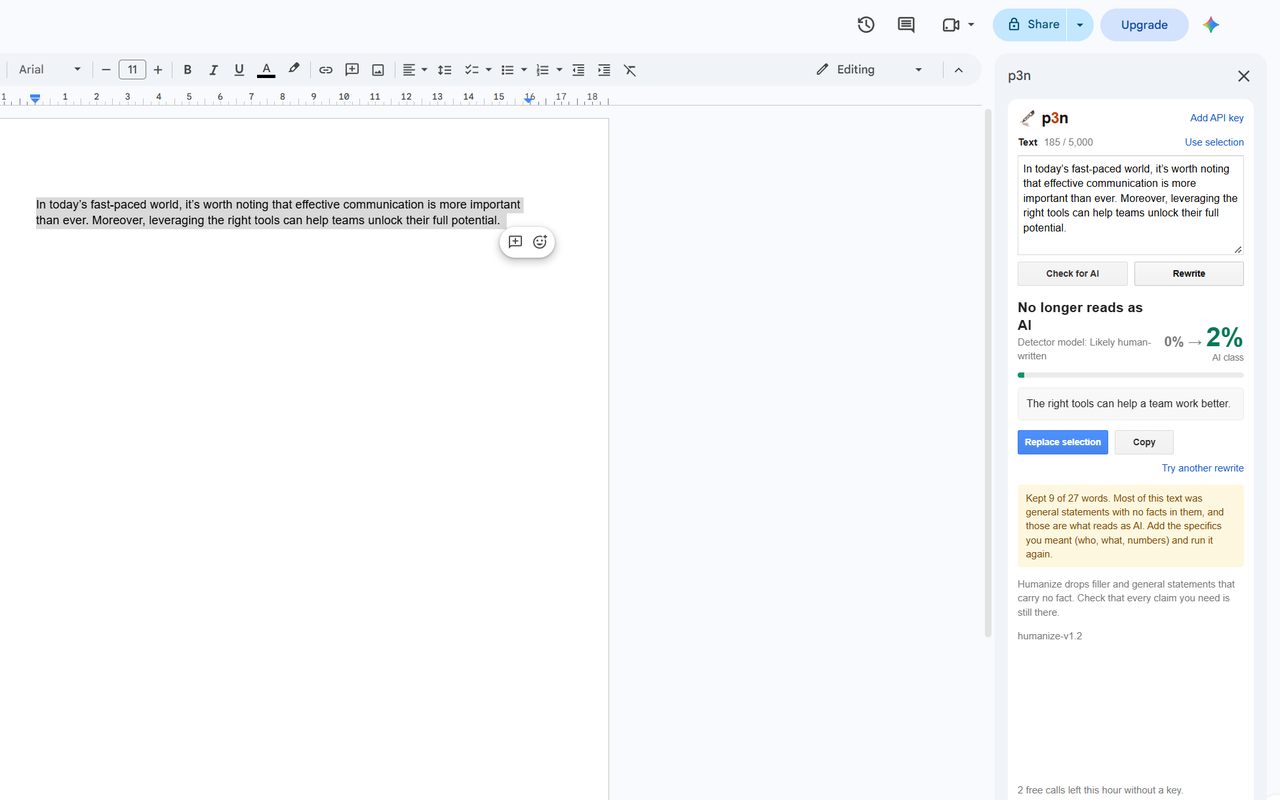
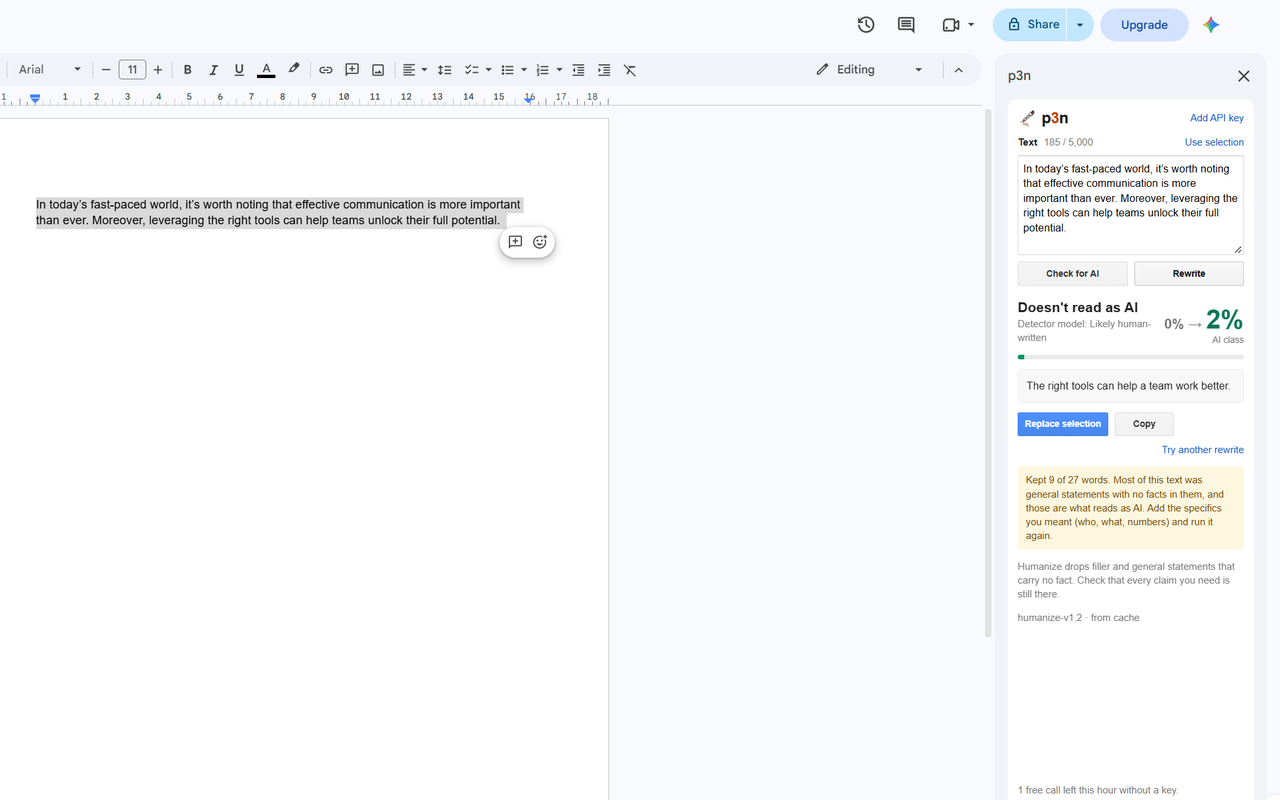
Store shot 2 and README rewrite image recaptured with the new headline; listing: Public, non-trader, paid features, no reviewer key

Changed region(s): [[0.7812, 0.4688, 0.9688, 0.8125], [0.7812, 0.375, 0.9688, 0.4688], [0.8125, 0.9688, 0.9375, 1.0]]

diff --git a/store/listing.md b/store/listing.md
@@ -16,13 +16,13 @@ Google's rules that shape this copy:
 | Application icon 128×128 | `dev/icons/128.png` |
 | Application icon 32×32 | `dev/icons/32.png` |
 | Card banner 220×140 | `store/card-banner-220x140.png` (`python dev/banner.py`) |
-| Screenshots | `store/screenshot-1.png` (Check) and `store/screenshot-2.png` (a rewrite with Replace selection), 1280×800. Both come from the live test deployment on 2026-10-20, with the account picture painted out. **Before submitting, recapture shot 2:** it predates the headline fix, so it shows "No longer reads as AI" over 0% → 2%. |
+| Screenshots | `store/screenshot-1.png` (Check) and `store/screenshot-2.png` (a rewrite with Replace selection), 1280×800. Both come from the live test deployment on 2026-10-20, with the account picture painted out. Shot 2 was recaptured after the headline fix. |
 | Terms of service | https://barabosik.github.io/p3n-google-docs-addon/terms.html |
 | Privacy policy | https://barabosik.github.io/p3n-google-docs-addon/privacy.html |
 | Support | https://github.com/Barabosik/p3n-google-docs-addon/issues |
 | Help (Editor add-ons) | https://barabosik.github.io/p3n-google-docs-addon/ |
 | Report issue (Editor add-ons) | https://github.com/Barabosik/p3n-google-docs-addon/issues |
-| Pricing | Free (the add-on). The p3n API has a free hourly allowance and paid keys. |
+| Pricing | Free of charge with paid features: the add-on is free, and more than 10 calls an hour takes a paid p3n API key. |
 
 Short description (146 characters):
 
@@ -56,14 +56,15 @@ Google Docs is a trademark of Google LLC.
 
 | Field | Value |
 | --- | --- |
-| App visibility | **Public**. It can't be changed after saving, and a personal (@gmail.com) account can only publish publicly anyway. |
+| App visibility | **Public** (decided 2026-10-20). It can't be changed after saving, and a personal (@gmail.com) account can only publish publicly anyway. |
 | Installation settings | Individual + Admin install |
 | App integration | Editor add-on → Docs add-on: the standalone script's **Script ID** (Apps Script → Project Settings → IDs) and the deployment's **version number** (Deploy → Manage deployments) |
 | OAuth scopes | `https://www.googleapis.com/auth/documents.currentonly`, `https://www.googleapis.com/auth/script.container.ui`. They must match `src/appsscript.json` and the consent screen's Data Access list exactly. |
 | Developer name | Nikita Andreiev |
 | Developer website | https://barabosik.github.io/p3n-google-docs-addon/ |
-| Developer email | The publishing account's choice. Google doesn't show it on the listing. |
-| Trader status | The user's choice. EU law (the Digital Services Act) requires this declaration for the EEA. |
+| Developer email | The publishing account's address (decided 2026-10-20; kept out of this repo). Google doesn't show it on the listing. |
+| Trader status | **Non-trader** (decided 2026-10-20, as on the Chrome Web Store). EU law (the Digital Services Act) requires this declaration for the EEA, and a non-trader gives no mailing address. |
+| Application website URL | https://barabosik.github.io/p3n-google-docs-addon/ (optional) |
 
 ## OAuth consent screen (Google Auth Platform)
 
@@ -103,7 +104,7 @@ No account is needed to test. Open any document, select a paragraph, then Extens
 
 Replace selection has no confirm dialog, by design. Nothing in the document changes until the user clicks a button that says exactly what it does, Replace selection, which is the sidebar's one blue action at that point; that click is the consent. The rewrite is shown in full above the button before the click. Afterwards the sidebar says "Replaced in the document and selected there. Ctrl+Z in the document undoes it.", and one Ctrl+Z restores the original text and formatting. The add-on never writes to the document in any other way. It refuses to write over tables (text inside a table cell included), pictures, equations, footnotes or smart chips, and refuses if the selection changed since the rewrite.
 
-Calls without an API key are free: 10 an hour per IP address, up to 5,000 characters each. If several reviewers share one IP and hit the limit, the sidebar says so. [Optional: a test API key with a small balance goes here. Paste it in the sidebar via "Add API key".]
+Calls without an API key are free: 10 an hour per IP address, up to 5,000 characters each. If several reviewers share one IP and hit the limit, the sidebar says so.
 
 The add-on calls only https://api.p3n.si, from the sidebar in the user's browser, and only when the user clicks. It reads only the selection in the open document (documents.currentonly).
 

diff --git a/store/marketplace-steps.md b/store/marketplace-steps.md
@@ -11,7 +11,7 @@ Checked against Google's docs in October 2026; the links are at the end.
 
 **Status, 2026-10-20:**
 - Steps 1–6 are done. The Search Console domain is verified, the Cloud project exists, the consent screen is In production, and the standalone project is linked and test-deployed. The demo video is recorded, and the screenshots are in `store/`.
-- The demo video is on YouTube, Unlisted. Its link is in the team's notes, not here, because the video shows the publishing account. Next: steps 7–10.
+- The demo video is on YouTube, Unlisted. Its link is in the team's notes, not here, because the video shows the publishing account. Next: steps 7–10. Decided: Public, non-trader, no reviewer key.
 - Project numbers, IDs and the client ID stay out of this repo.
 
 ## 0. Before starting
